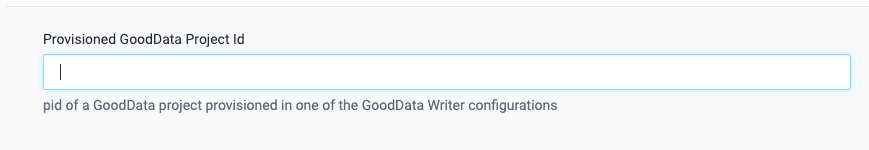
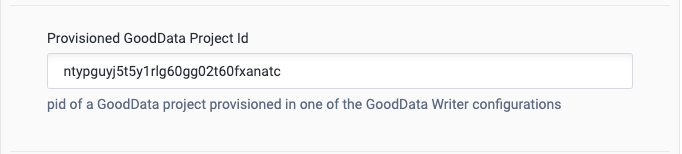
gooddata reports: better screenshots for provisioned project setup

diff --git a/extractors/marketing-sales/gooddata-reports/index.md b/extractors/marketing-sales/gooddata-reports/index.md
@@ -43,6 +43,8 @@ Continue by providing your own GoodData **credentials**.
 
 You can also choose an id of **GoodData Project** provisoned in one of the existing GoodData Writer configurations and use its credentials. The project id(pid) of the provisioned project can be found in a GoodData writer configuration.
 
+{: .image-popup}
+![Screenshot - GoodData Writer Config with Provisioned Project](/extractors/marketing-sales/gooddata-reports/wrgdconfigwithpid.png)
 
 {: .image-popup}
 ![Screenshot - Provisioned GoodData Project Id](/extractors/marketing-sales/gooddata-reports/05-writer-pid.png)
